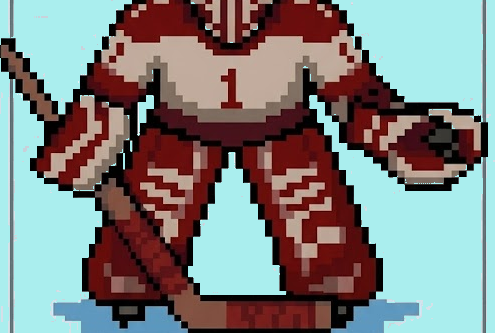
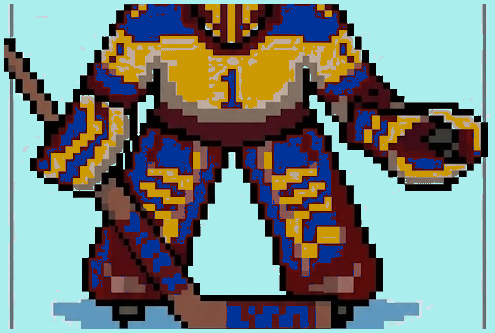
Normalize goalie sprites to same blue/gold/teal palette as skaters
goalie.png (butterfly): sky-blue bg -> teal, white jersey -> blue,
  red accents -> gold (44k bg px, 1826 jersey px, 476 accent px)

goalie_stand.png (V-stand): red/maroon jersey -> blue,
  cream padding -> gold, edge border forced to teal (15k each)

pcDrawGoalieSprite in script.js: removed the dual poseIdx detection
branch (old butterfly vs stand logic) — both poses now share the
same unified pixel rules as pcDrawSkaterSprite:
  teal bg -> transparent, blue -> primary, gold/warm -> secondary

diff --git a/script.js b/script.js
@@ -7136,8 +7136,7 @@ function pcDrawGoalieSprite(ctx, canvasW, canvasH, pri, sec, pName) {
     const toRGB = hex => [parseInt(hex.slice(1,3),16), parseInt(hex.slice(3,5),16), parseInt(hex.slice(5,7),16)];
     const [pR,pG,pB] = toRGB(pri);
     const [sR,sG,sB] = toRGB(sec);
-    const poseIdx = _pcPoseIdx(pName || '', PC_GOALIE_POSES.length);
-    const src = PC_GOALIE_POSES[poseIdx];
+    const src = PC_GOALIE_POSES[_pcPoseIdx(pName || '', PC_GOALIE_POSES.length)];
     const img = new Image();
     img.onload = () => {
         const off = document.createElement('canvas');
@@ -7147,17 +7146,19 @@ function pcDrawGoalieSprite(ctx, canvasW, canvasH, pri, sec, pName) {
         const id = oc.getImageData(0, 0, off.width, off.height);
         const d = id.data;
         for (let i = 0; i < d.length; i += 4) {
-            const r = d[i], g = d[i+1], b = d[i+2];
-            if (poseIdx === 0) {
-                // butterfly goalie.png: sky-blue bg, white jersey -> pri, red -> sec
-                if (r > 100 && r < 200 && g > 160 && g < 240 && b > 190 && b >= g) { d[i+3]=0; continue; }
-                if (r > 185 && g > 185 && b > 185) { d[i]=pR; d[i+1]=pG; d[i+2]=pB; continue; }
-                if (r > 160 && g < 80 && b < 80)  { d[i]=sR; d[i+1]=sG; d[i+2]=sB; continue; }
-            } else {
-                // goalie_stand.png: teal bg, red/maroon jersey -> pri, cream padding -> sec
-                if (r > 130 && r < 210 && g > 200 && b > 200 && Math.abs(g-b) < 40) { d[i+3]=0; continue; }
-                if (r > 100 && r > g * 1.8 && r > b * 1.8) { d[i]=pR; d[i+1]=pG; d[i+2]=pB; continue; }
-                if (r > 160 && g > 130 && b > 90 && r > b + 40) { d[i]=sR; d[i+1]=sG; d[i+2]=sB; continue; }
+            const r = d[i], g = d[i+1], b = d[i+2], a = d[i+3];
+            if (a < 10) continue;
+            // Teal background -> transparent (same palette as skaters)
+            if (r > 130 && r < 210 && g > 200 && b > 200 && Math.abs(g - b) < 40) {
+                d[i+3] = 0; continue;
+            }
+            // Blue jersey -> team primary
+            if (b > 60 && b > r * 1.2 && b > g * 0.85 && r < 160 && g < 180) {
+                d[i]=pR; d[i+1]=pG; d[i+2]=pB; continue;
+            }
+            // Gold/warm accents -> team secondary
+            if (r > 120 && g > 50 && b < 80 && r > b * 2) {
+                d[i]=sR; d[i+1]=sG; d[i+2]=sB; continue;
             }
         }
         oc.putImageData(id, 0, 0);